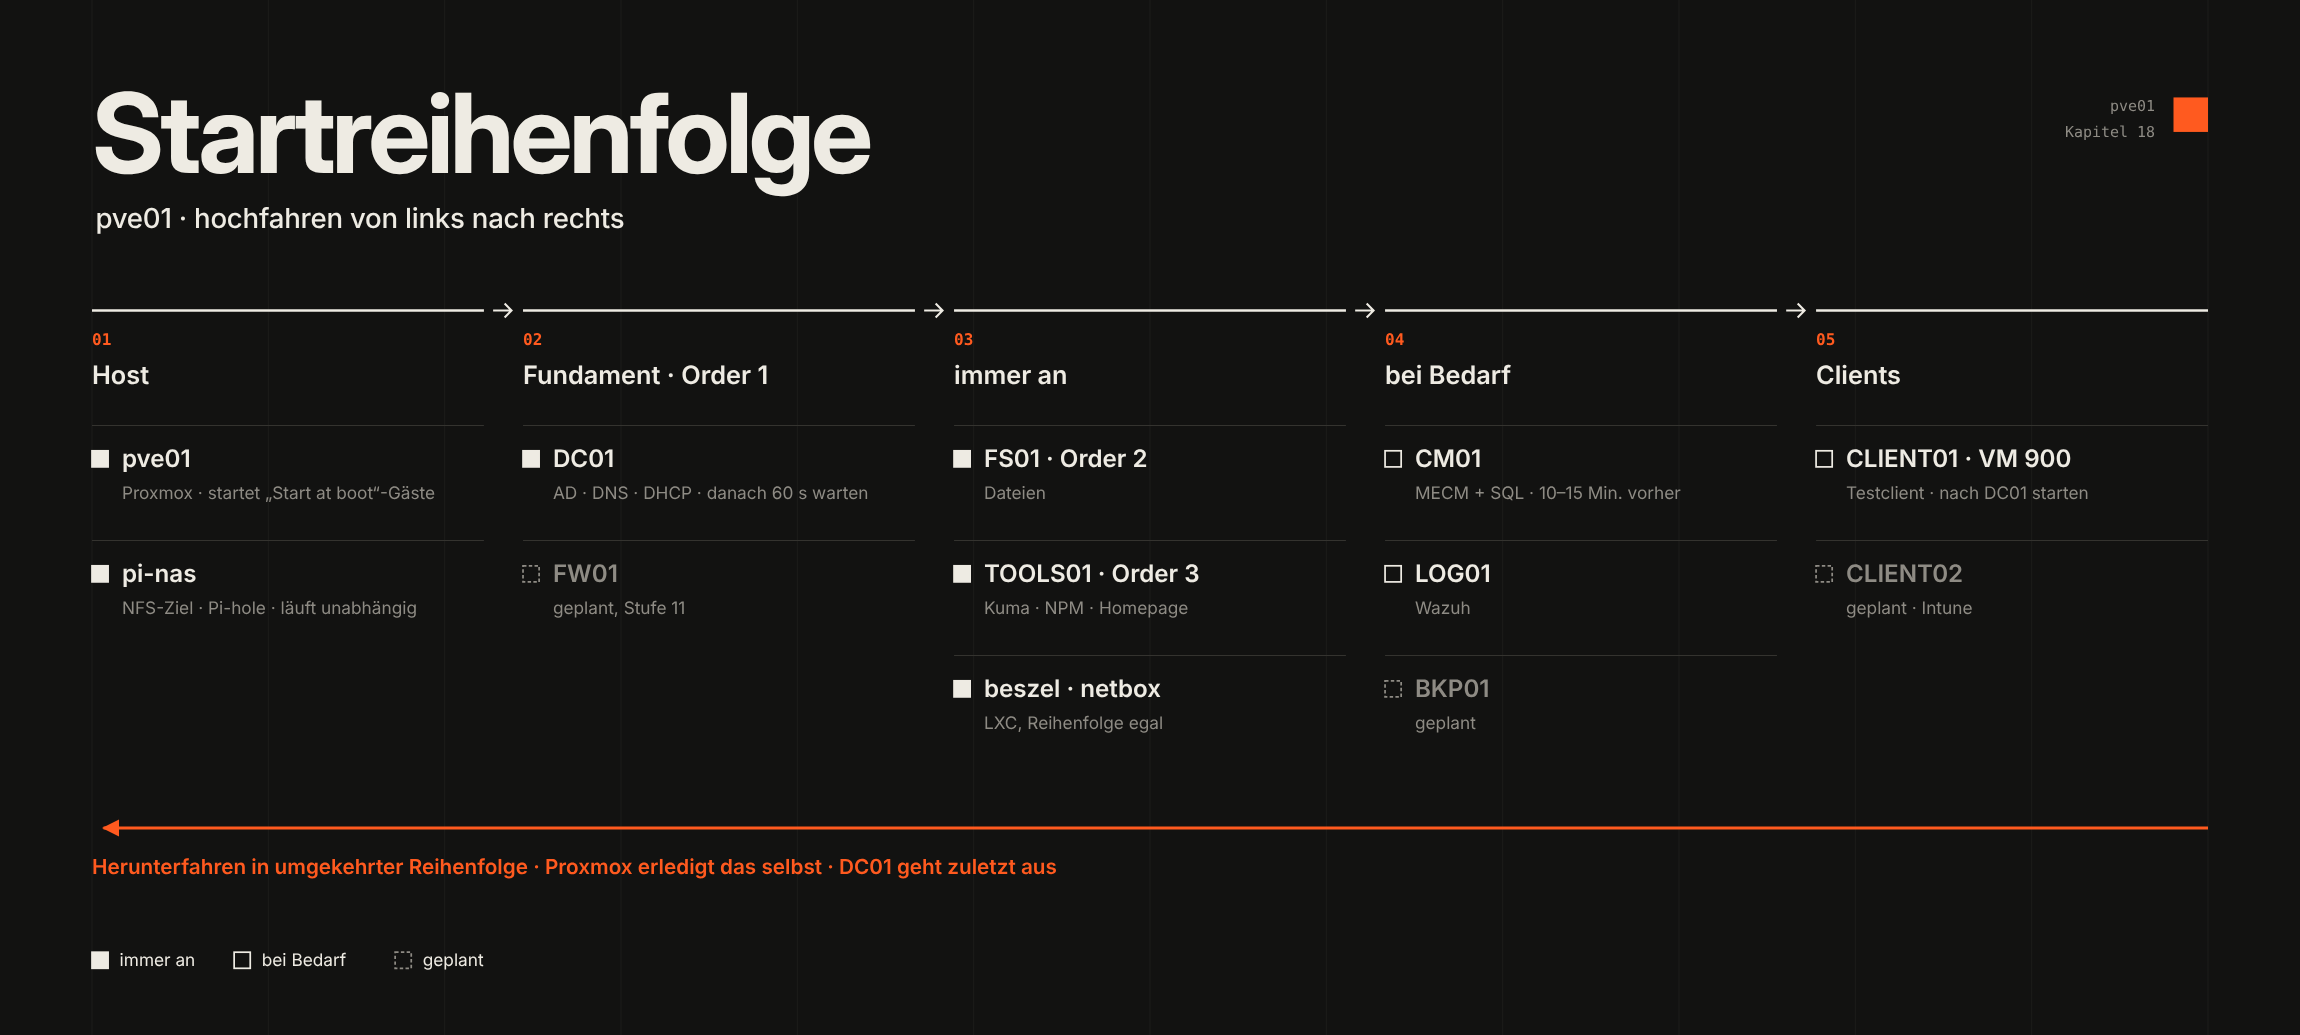
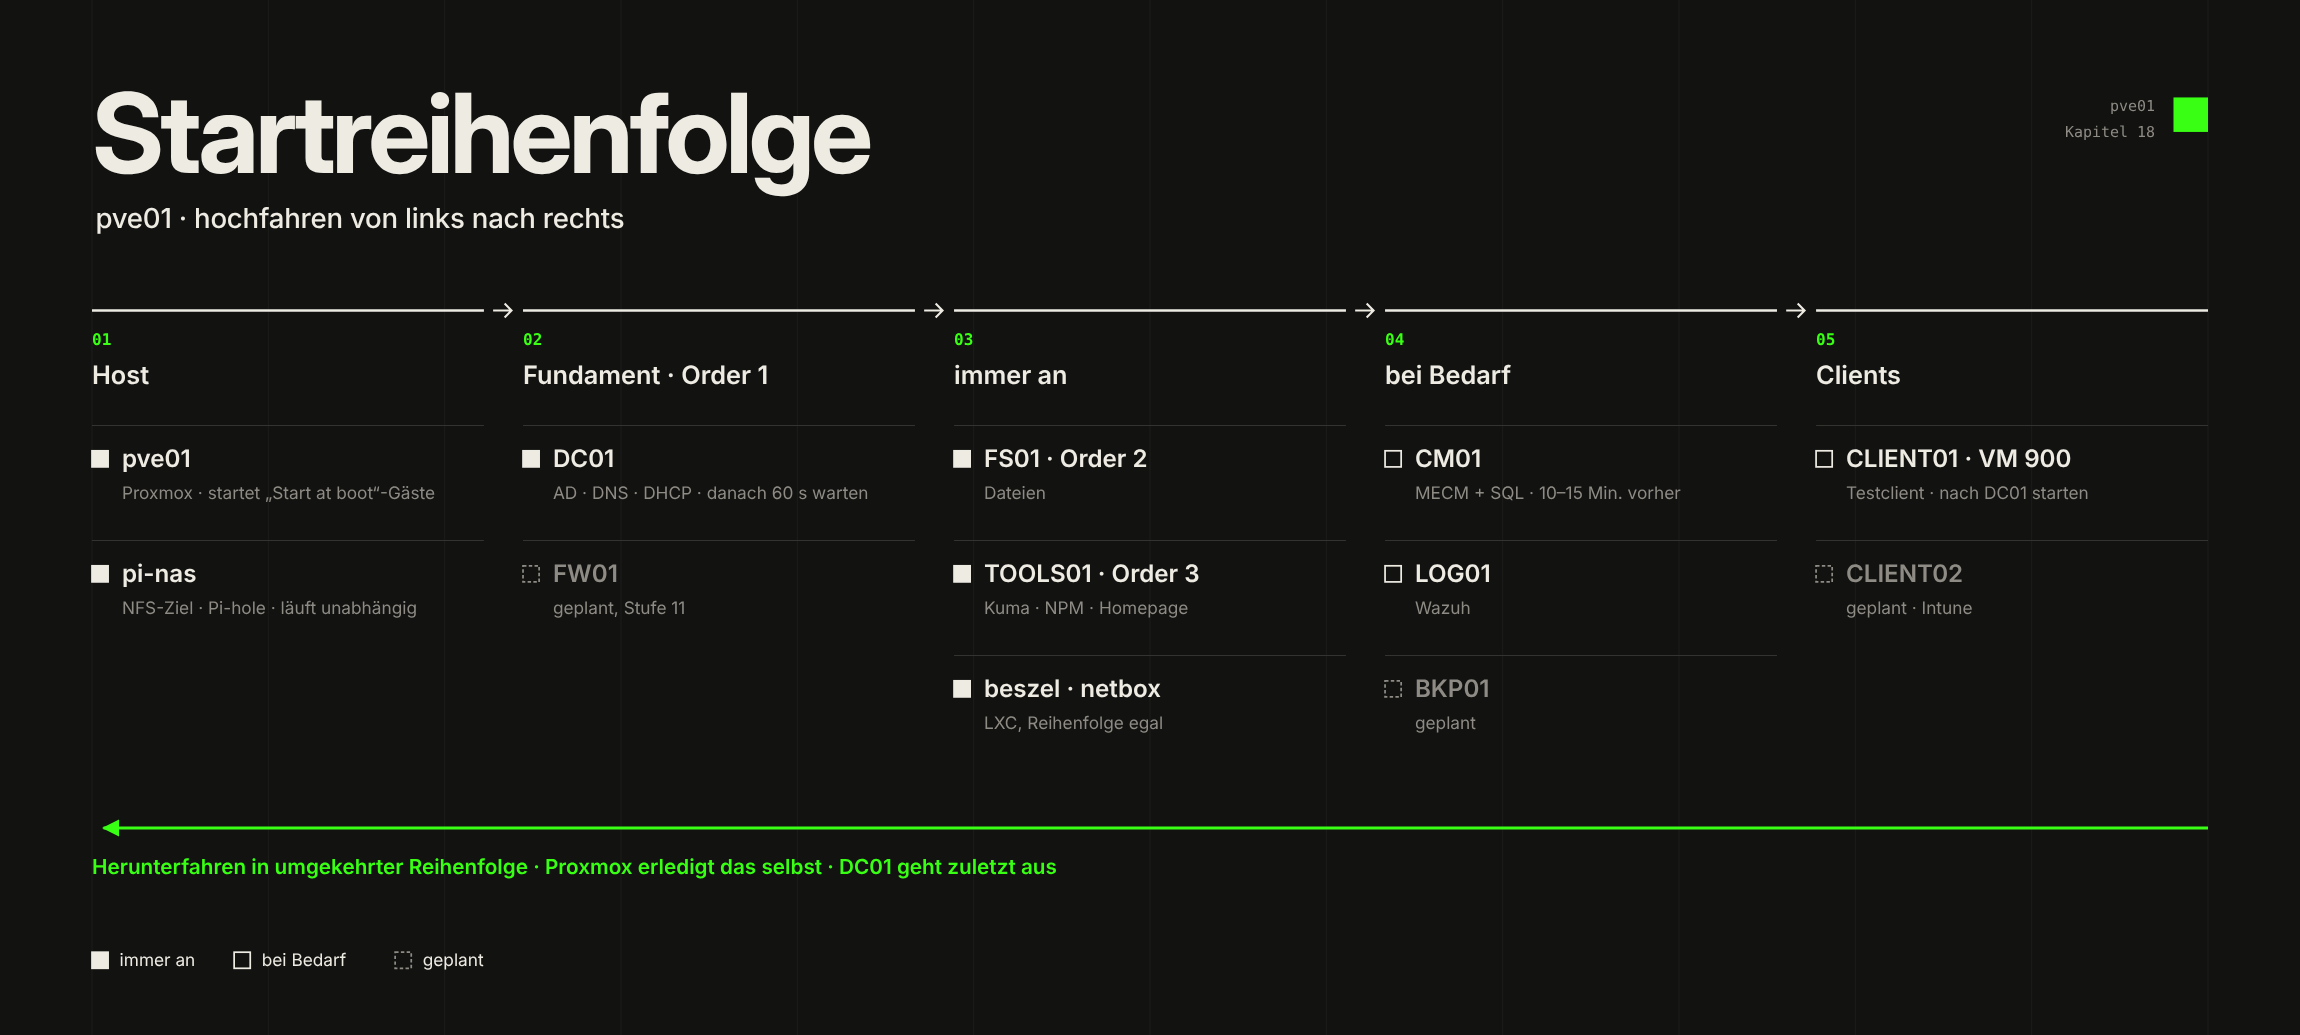
Grafiken: Akzentfarbe Neon-Grün statt Orange
Claude-Session: https://claude.ai/code/session_013Cos1XrDperH2ZosfC9rGD

Changed region(s): [[0.0309, 0.7729, 0.957, 0.8039], [0.0309, 0.8348, 0.463, 0.8657], [0.9261, 0.0928, 0.957, 0.1237]]

diff --git a/docs/changelog.md b/docs/changelog.md
@@ -1,7 +1,7 @@
 # Changelog
 
 ## 2026-11-04
-- Alle Grafiken auf Dark Mode umgestellt (gleiche Dateinamen). Der [Netzwerkplan](diagramme/netzwerk-2026-11-04.png) ist jetzt standardmäßig dunkel, die helle Fassung liegt unter [netzwerk-2026-11-04-light.png](diagramme/netzwerk-2026-11-04-light.png)
+- Alle Grafiken auf Dark Mode umgestellt (gleiche Dateinamen), Akzentfarbe Neon-Grün statt Orange. Der [Netzwerkplan](diagramme/netzwerk-2026-11-04.png) ist jetzt standardmäßig dunkel, die helle Fassung liegt unter [netzwerk-2026-11-04-light.png](diagramme/netzwerk-2026-11-04-light.png)
 - README neu gegliedert: Titelbild im Neo-Swiss-Stil, Schnelllinks, Stand als kurze Liste, jedes Kapitel nur noch einmal in den Teil-Tabellen, Themen-Index kompakt, Bilder, Fehlerliste, Versionen und Repo-Aufbau zum Aufklappen
 - Alle Grafiken in [`diagramme/`](diagramme/) im Neo-Swiss-Stil neu gezeichnet (Raster, Haarlinien, Rot als einzige Akzentfarbe), Inhalte unverändert, Dateinamen gleich. Die [Roadmap-Grafik](diagramme/roadmap.png) zeigt dabei den Stand 04.11. (Anleitungen für Stufe 7 und 15). Die Netzwerk-Grafiken vom 22.10., 25.10. und 27.10. bleiben als historische Stände im alten Stil, alte Fassungen aller übrigen Grafiken im Commit `2a9ccb7`
 - Neuer Netzwerkplan [Stand 04.11.](diagramme/netzwerk-2026-11-04.png) im Neo-Swiss-Stil (Raster, Haarlinien, Rot nur für VLAN 10) mit Immich, Vaultwarden, JetKVM, Shelly Plug und Rack-Display, jetzt oben im README und im [Aufbau](aufbau.md). Vektor-Quelle: [netzwerk-2026-11-04-light.svg](diagramme/netzwerk-2026-11-04-light.svg). Dazu eine Dark-Mode-Fassung im Plakat-Stil
